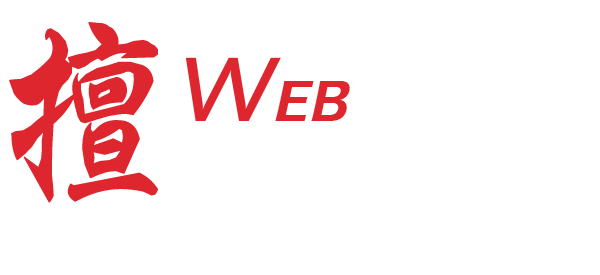
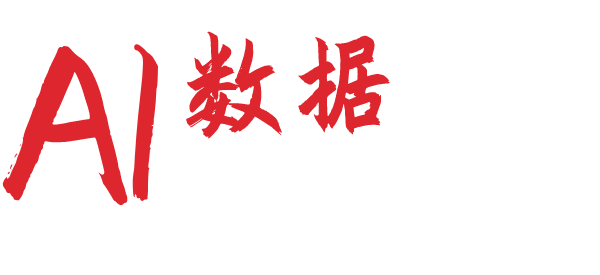
首页修改

Changed region(s): [[0.0, 0.0582, 0.27, 0.7564], [0.3, 0.1164, 0.66, 0.4945]]

diff --git a/index.html b/index.html
@@ -2,7 +2,7 @@
 <html xmlns="http://www.w3.org/1999/xhtml">
 <head>
 <meta http-equiv="Content-Type" content="text/html; charset=utf-8" />
-<title>因斯坦科技 INSTEIN WebClient</title>
+<title>因斯坦科技 赋能企业数据智能建设</title>
 <meta name="description" content="网站描述" />
 <meta name="keywords" content="关键词" />
 <meta name="author" content="order by" />
@@ -116,7 +116,7 @@ tabId:"#wk_about_menu",tabTag:"a",conId:"#wk_about_div",conTag:"div.wk_aaa",act:
           <li class="wk_nav-line"></li>
           <li class="wk_nav-bullet-container active" data-index="0"><a class="nav-link" href="javascript:void(0)">
             <div class="nav-bullet"></div>
-            <div class="nav-text">高端定制开发</div>
+            <div class="nav-text">数据智能建设</div>
             </a></li>
           <li class="wk_nav-line"></li>
           <li class="wk_nav-bullet-container" data-index="1"><a class="nav-link" href="javascript:void(0)">

diff --git a/caseshow.html b/caseshow.html
@@ -2,7 +2,7 @@
 <html xmlns="http://www.w3.org/1999/xhtml">
 <head>
 <meta http-equiv="Content-Type" content="text/html; charset=utf-8" />
-<title>互联网时代下，做营销更多是要学会讲故事_高端炫酷IT网络建站公司网站模板</title>
+<title>因斯坦科技 赋能企业数据智能建设</title>
 <meta name="keywords" content="互联网,时代,下,做,营销,更多,是要,学,会讲," />
 <meta name="description" content="一个有故事的人似乎会更有吸引力，起码别人都有点兴趣去了解他背后的故事是什么。同样，一个有故事的企业，也会被某种吸引力笼罩，做起生意来更加得心应手。相反，一个没故事" />
 <meta http-equiv="X-UA-Compatible" content="IE=edge, chrome=1">

diff --git a/newsshow.html b/newsshow.html
@@ -2,7 +2,7 @@
 <html xmlns="http://www.w3.org/1999/xhtml">
 <head>
 <meta http-equiv="Content-Type" content="text/html; charset=utf-8" />
-<title>互联网时代下，做营销更多是要学会讲故事_高端炫酷IT网络建站公司网站模板</title>
+<title>因斯坦科技 赋能企业数据智能建设</title>
 <meta name="keywords" content="互联网,时代,下,做,营销,更多,是要,学,会讲," />
 <meta name="description" content="一个有故事的人似乎会更有吸引力，起码别人都有点兴趣去了解他背后的故事是什么。同样，一个有故事的企业，也会被某种吸引力笼罩，做起生意来更加得心应手。相反，一个没故事" />
 <meta http-equiv="X-UA-Compatible" content="IE=edge, chrome=1">

diff --git a/wentishow.html b/wentishow.html
@@ -2,7 +2,7 @@
 <html xmlns="http://www.w3.org/1999/xhtml">
 <head>
 <meta http-equiv="Content-Type" content="text/html; charset=utf-8" />
-<title>互联网时代下，做营销更多是要学会讲故事_高端炫酷IT网络建站公司网站模板</title>
+<title>因斯坦科技 赋能企业数据智能建设</title>
 <meta name="keywords" content="互联网,时代,下,做,营销,更多,是要,学,会讲," />
 <meta name="description" content="一个有故事的人似乎会更有吸引力，起码别人都有点兴趣去了解他背后的故事是什么。同样，一个有故事的企业，也会被某种吸引力笼罩，做起生意来更加得心应手。相反，一个没故事" />
 <meta http-equiv="X-UA-Compatible" content="IE=edge, chrome=1">

diff --git a/about.html b/about.html
@@ -2,7 +2,7 @@
 <html xmlns="http://www.w3.org/1999/xhtml">
 <head>
 <meta http-equiv="Content-Type" content="text/html; charset=utf-8" />
-<title>关于我们_高端炫酷IT网络建站公司网站模板</title>
+<title>因斯坦科技 赋能企业数据智能建设</title>
 <meta name="keywords" content="" />
 <meta name="description" content="" />
 <meta http-equiv="X-UA-Compatible" content="IE=edge, chrome=1">

diff --git a/case.html b/case.html
@@ -2,7 +2,7 @@
 <html xmlns="http://www.w3.org/1999/xhtml">
 <head>
 <meta http-equiv="Content-Type" content="text/html; charset=utf-8" />
-<title>项目案例_高端炫酷IT网络建站公司网站模板</title>
+<title>因斯坦科技 赋能企业数据智能建设</title>
 <meta name="keywords" content="" />
 <meta name="description" content="" />
 <meta http-equiv="X-UA-Compatible" content="IE=edge, chrome=1">

diff --git a/contact.html b/contact.html
@@ -2,7 +2,7 @@
 <html xmlns="http://www.w3.org/1999/xhtml">
 <head>
 <meta http-equiv="Content-Type" content="text/html; charset=utf-8" />
-<title>联系我们_高端炫酷IT网络建站公司网站模板</title>
+<title>因斯坦科技 赋能企业数据智能建设</title>
 <meta name="keywords" content="" />
 <meta name="description" content="" />
 <meta http-equiv="X-UA-Compatible" content="IE=edge, chrome=1">

diff --git a/news.html b/news.html
@@ -2,7 +2,7 @@
 <html xmlns="http://www.w3.org/1999/xhtml">
 <head>
 <meta http-equiv="Content-Type" content="text/html; charset=utf-8" />
-<title>新闻资讯_高端炫酷IT网络建站公司网站模板</title>
+<title>因斯坦科技 赋能企业数据智能建设</title>
 <meta name="keywords" content="" />
 <meta name="description" content="" />
 <meta http-equiv="X-UA-Compatible" content="IE=edge, chrome=1">

diff --git a/wenti.html b/wenti.html
@@ -2,7 +2,7 @@
 <html xmlns="http://www.w3.org/1999/xhtml">
 <head>
 <meta http-equiv="Content-Type" content="text/html; charset=utf-8" />
-<title>常见问题_高端炫酷IT网络建站公司网站模板</title>
+<title>因斯坦科技 赋能企业数据智能建设</title>
 <meta name="keywords" content="" />
 <meta name="description" content="" />
 <meta http-equiv="X-UA-Compatible" content="IE=edge, chrome=1">
